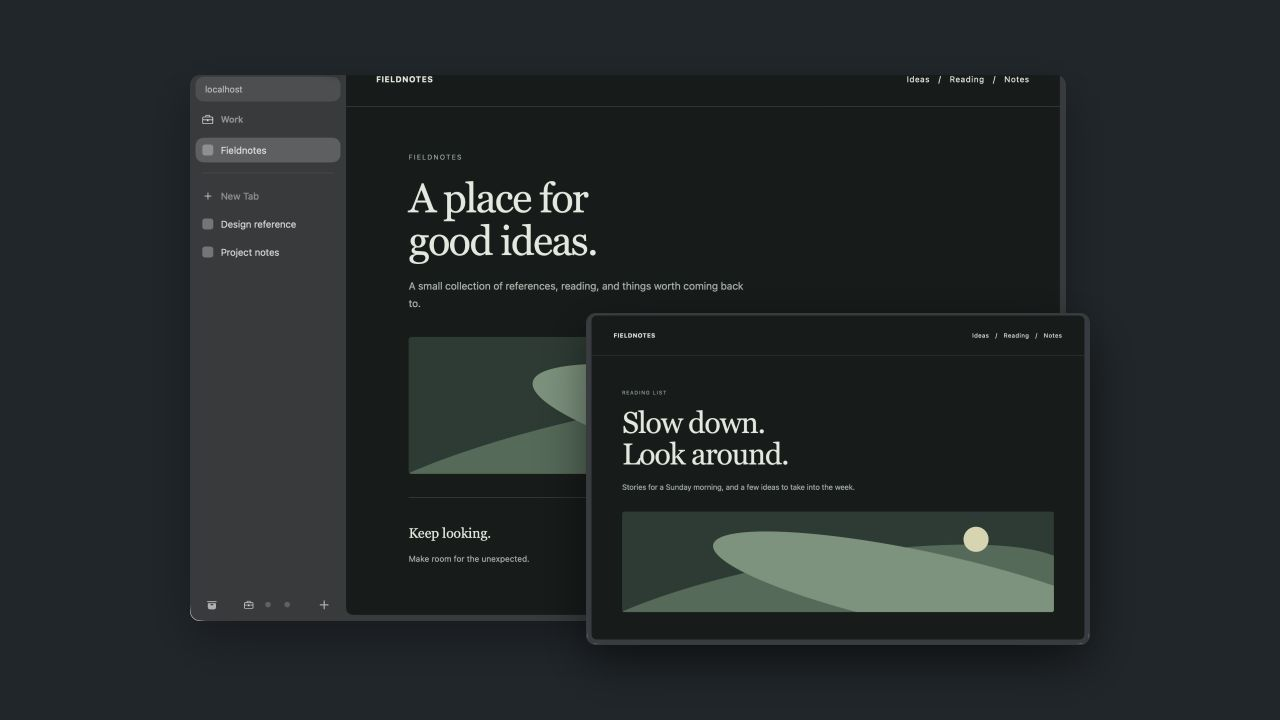
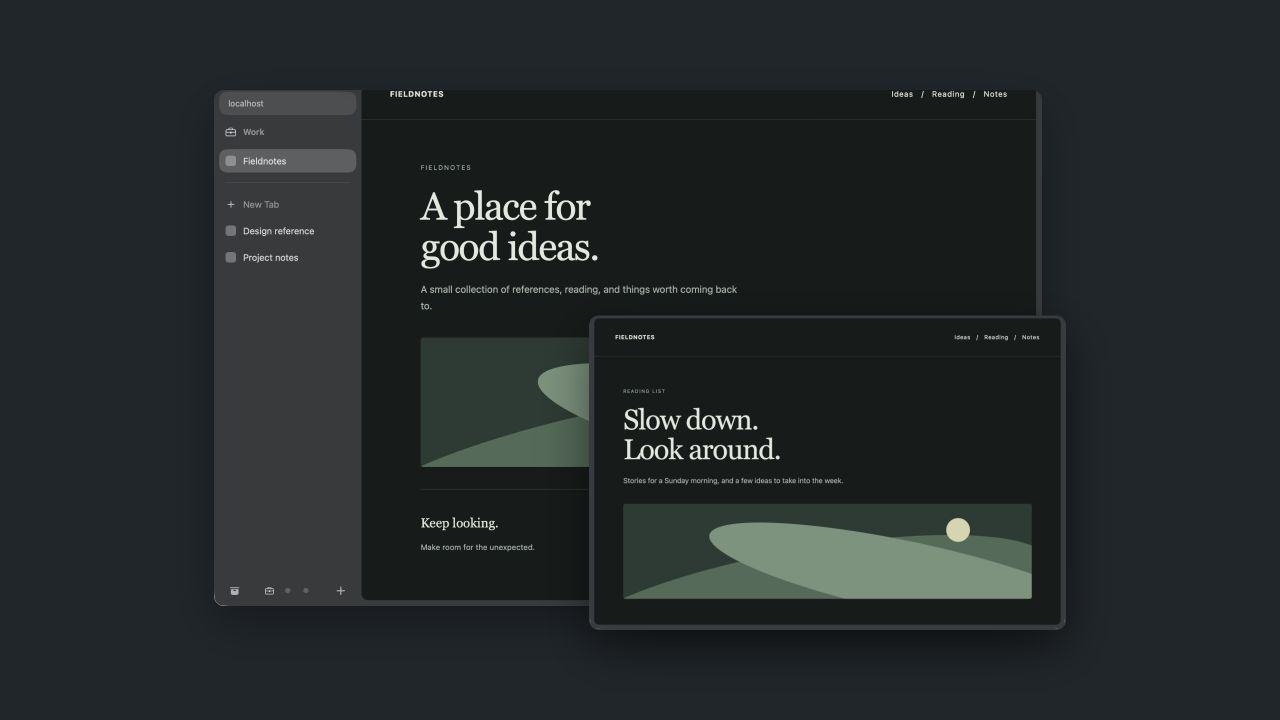
Fit reusable screenshot displays to short viewports

Changed region(s): [[0.125, 0.0917, 0.875, 0.9167], [0.3125, 0.7028, 0.4062, 0.7944], [0.6875, 0.0917, 0.8125, 0.1528]]

diff --git a/docs/media/display.html b/docs/media/display.html
@@ -1,1 +1,37 @@
-<!doctype html><html lang="en"><head><meta charset="utf-8"><meta name="viewport" content="width=device-width,initial-scale=1"><title>Vane · App display</title><link rel="stylesheet" href="../styles.css?v=26"><style>body{margin:0;padding:0;background:#20262a}body::before,body::after{display:none}main{margin:0;padding:0;max-width:none}.display-board{height:100svh;display:flex;align-items:center;justify-content:center;padding:6vw 9vw;background:#20262a}.display-board>div{width:min(100%,900px)}.display-board[hidden]{display:none}</style></head><body><main><section class="display-board" data-display="spaces"><div class="app-capture"><img src="vane-spaces-dark.png" alt="Vane Work Space in dark mode" width="2560" height="1680"></div></section><section class="display-board" data-display="split" hidden><div class="app-capture"><img src="vane-split-dark.png" alt="Vane Split View in dark mode" width="2560" height="1680"></div></section><section class="display-board" data-display="little" hidden><div class="capture-composition"><div class="app-capture"><img src="vane-spaces-dark.png" alt="Vane Work Space in dark mode" width="2560" height="1680"></div><div class="capture-floating"><div class="app-capture app-capture-little"><img src="vane-little-dark.png" alt="Little Vane in dark mode" width="2000" height="1400"></div></div></div></section></main><script>const view=new URLSearchParams(location.search).get('view');if(['spaces','split','little'].includes(view)){document.querySelectorAll('[data-display]').forEach(board=>board.hidden=board.dataset.display!==view);}</script></body></html>
+<!doctype html>
+<html lang="en">
+<head>
+<meta charset="utf-8">
+<meta name="viewport" content="width=device-width,initial-scale=1">
+<title>Vane · App display</title>
+<link rel="stylesheet" href="../styles.css?v=26">
+<style>body{margin:0;padding:0;background:#20262a}body::before,body::after{display:none}main{margin:0;padding:0;max-width:none}.display-board{height:100svh;display:flex;align-items:center;justify-content:center;--display-padding:clamp(16px,6vw,64px);padding:var(--display-padding) 9vw;background:#20262a}.display-board>div{width:min(100%,900px,calc((100svh - var(--display-padding) - var(--display-padding) - 24px)*1.5))}.display-board[hidden]{display:none}</style>
+</head>
+<body>
+<main>
+<section class="display-board" data-display="spaces">
+<div class="app-capture">
+<img src="vane-spaces-dark.png" alt="Vane Work Space in dark mode" width="2560" height="1680">
+</div>
+</section>
+<section class="display-board" data-display="split" hidden>
+<div class="app-capture">
+<img src="vane-split-dark.png" alt="Vane Split View in dark mode" width="2560" height="1680">
+</div>
+</section>
+<section class="display-board" data-display="little" hidden>
+<div class="capture-composition">
+<div class="app-capture">
+<img src="vane-spaces-dark.png" alt="Vane Work Space in dark mode" width="2560" height="1680">
+</div>
+<div class="capture-floating">
+<div class="app-capture app-capture-little">
+<img src="vane-little-dark.png" alt="Little Vane in dark mode" width="2000" height="1400">
+</div>
+</div>
+</div>
+</section>
+</main>
+<script>const view=new URLSearchParams(location.search).get('view');if(['spaces','split','little'].includes(view)){document.querySelectorAll('[data-display]').forEach(board=>board.hidden=board.dataset.display!==view);}</script>
+</body>
+</html>
